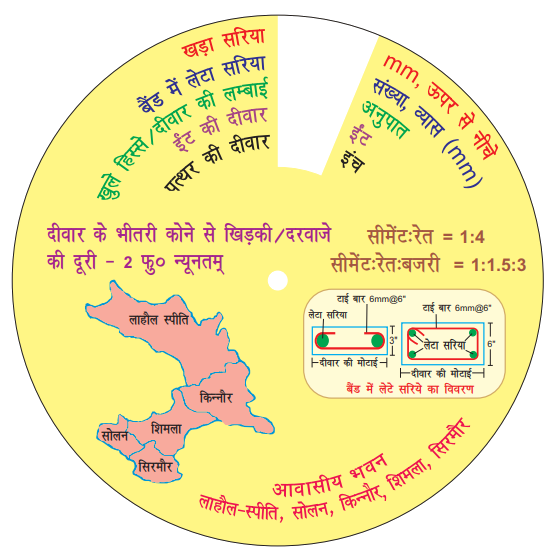
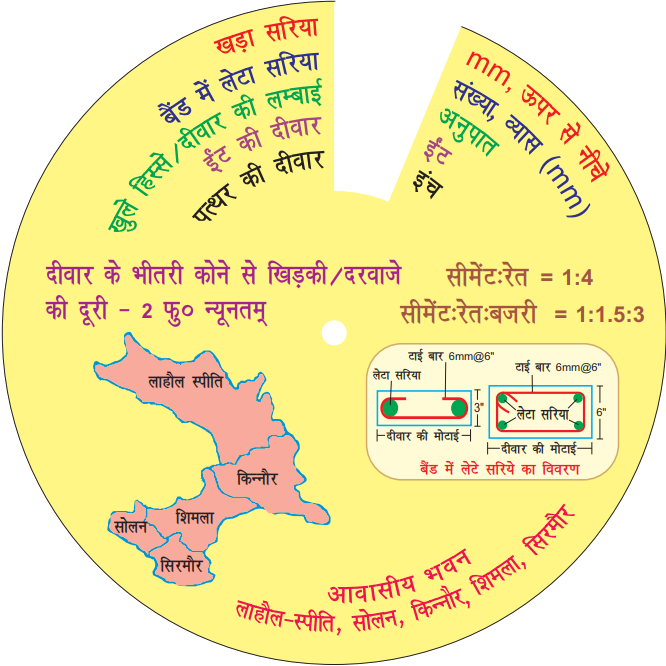
added function for getting file path for respective account addr

Changed region(s): [[0.0, 0.0, 1.0, 1.0], [0.4562, 0.457, 0.517, 0.5179]]

diff --git a/lib/main.dart b/lib/main.dart
@@ -1,4 +1,5 @@
 import 'package:flutter/material.dart';
+import 'dart:math';
 
 void main() {
   runApp(MaterialApp(
@@ -23,9 +24,11 @@ class _RotatingComponentState extends State<RotatingComponent> {
     });
   }
 
-  void toggleRegion(String region) {
+  void toggleRegion() {
     setState(() {
-      selectedRegion = region;
+      selectedRegion = (selectedRegion == 'Upper Himachal')
+          ? 'Lower Himachal'
+          : 'Upper Himachal';
     });
   }
 
@@ -33,19 +36,21 @@ class _RotatingComponentState extends State<RotatingComponent> {
   Widget build(BuildContext context) {
     return Scaffold(
       appBar: AppBar(
-        title: Text('Himachal Pradesh - $selectedRegion'),
+        title: Text('Himachal Pradesh'),
         actions: [
           ElevatedButton(
             onPressed: toggleLanguage,
             style: ElevatedButton.styleFrom(
-              backgroundColor: selectedLanguage == 'English' ? Colors.indigo : Colors.grey,
+              backgroundColor:
+                  selectedLanguage == 'English' ? Colors.indigo : Colors.grey,
             ),
             child: Text('English'),
           ),
           ElevatedButton(
             onPressed: toggleLanguage,
             style: ElevatedButton.styleFrom(
-              backgroundColor: selectedLanguage == 'Hindi' ? Colors.indigo : Colors.grey,
+              backgroundColor:
+                  selectedLanguage == 'Hindi' ? Colors.indigo : Colors.grey,
             ),
             child: Text('Hindi'),
           ),
@@ -58,14 +63,13 @@ class _RotatingComponentState extends State<RotatingComponent> {
           final centerX = width / 2;
           final centerY = height / 2;
 
-          final dx = details.localPosition.dx;
-          final dy = details.localPosition.dy;
+          final dx = details.localPosition.dx - centerX;
+          final dy = details.localPosition.dy - centerY;
 
-          final angle = -((dy - centerY) / (dx - centerX));
-          final newRotation = angle - previousAngle;
+          final angle = atan2(dy, dx);
 
           setState(() {
-            rotation += newRotation;
+            rotation += angle - previousAngle;
             previousAngle = angle;
           });
         },
@@ -77,14 +81,18 @@ class _RotatingComponentState extends State<RotatingComponent> {
                 width: double.infinity,
                 height: double.infinity,
                 child: Image.asset(
-                      () {
-                    if (selectedLanguage == 'Hindi' && selectedRegion == 'Upper Himachal') {
+                  () {
+                    if (selectedLanguage == 'Hindi' &&
+                        selectedRegion == 'Upper Himachal') {
                       return 'assets/background.png';
-                    } else if (selectedLanguage == 'Hindi' && selectedRegion == 'Lower Himachal') {
+                    } else if (selectedLanguage == 'Hindi' &&
+                        selectedRegion == 'Lower Himachal') {
                       return 'assets/english/lower_background.png';
-                    } else if (selectedLanguage == 'English' && selectedRegion == 'Upper Himachal') {
+                    } else if (selectedLanguage == 'English' &&
+                        selectedRegion == 'Upper Himachal') {
                       return 'assets/english/upper_eglish_BG.png';
-                    } else if (selectedLanguage == 'English' && selectedRegion == 'Lower Himachal') {
+                    } else if (selectedLanguage == 'English' &&
+                        selectedRegion == 'Lower Himachal') {
                       return 'assets/english/lower_english_bg.png';
                     } else {
                       return '';
@@ -97,21 +105,25 @@ class _RotatingComponentState extends State<RotatingComponent> {
                 child: Transform.rotate(
                   angle: rotation,
                   child: Image.asset(
-                        () {
-                      if (selectedLanguage == 'Hindi' && selectedRegion == 'Upper Himachal') {
+                    () {
+                      if (selectedLanguage == 'Hindi' &&
+                          selectedRegion == 'Upper Himachal') {
                         return 'assets/rotating.png';
-                      } else if (selectedLanguage == 'Hindi' && selectedRegion == 'Lower Himachal') {
+                      } else if (selectedLanguage == 'Hindi' &&
+                          selectedRegion == 'Lower Himachal') {
                         return 'assets/upper_rotate.png';
-                      } else if (selectedLanguage == 'English' && selectedRegion == 'Upper Himachal') {
+                      } else if (selectedLanguage == 'English' &&
+                          selectedRegion == 'Upper Himachal') {
                         return 'assets/pics/upper_eglish_rotate.png';
-                      } else if (selectedLanguage == 'English' && selectedRegion == 'Lower Himachal') {
+                      } else if (selectedLanguage == 'English' &&
+                          selectedRegion == 'Lower Himachal') {
                         return 'assets/pics/lower_english_rotate.png';
                       } else {
                         return '';
                       }
                     }(),
-                    width: 300,
-                    height: 300,
+                    width: 290,
+                    height: 290,
                   ),
                 ),
               ),
@@ -120,28 +132,21 @@ class _RotatingComponentState extends State<RotatingComponent> {
         ),
       ),
       bottomNavigationBar: BottomAppBar(
-        child: Row(
-          mainAxisAlignment: MainAxisAlignment.spaceEvenly,
-          children: [
-            ElevatedButton(
-              onPressed: () {
-                toggleRegion('Upper Himachal');
-              },
-              style: ElevatedButton.styleFrom(
-                backgroundColor: selectedRegion == 'Upper Himachal' ? Colors.blue : Colors.grey,
-              ),
-              child: Text('Upper Himachal'),
+        child: Container(
+          width: double.infinity, // Set the width to full screen
+          height: 60,
+          child: ElevatedButton(
+            onPressed: toggleRegion,
+            style: ElevatedButton.styleFrom(
+              backgroundColor: Colors.blue,
             ),
-            ElevatedButton(
-              onPressed: () {
-                toggleRegion('Lower Himachal');
-              },
-              style: ElevatedButton.styleFrom(
-                backgroundColor: selectedRegion == 'Lower Himachal' ? Colors.green : Colors.grey,
+            child: Text(
+              'Flip',
+              style: TextStyle(
+                fontSize: 24, // Set the text size here
               ),
-              child: Text('Lower Himachal'),
             ),
-          ],
+          ),
         ),
       ),
     );
